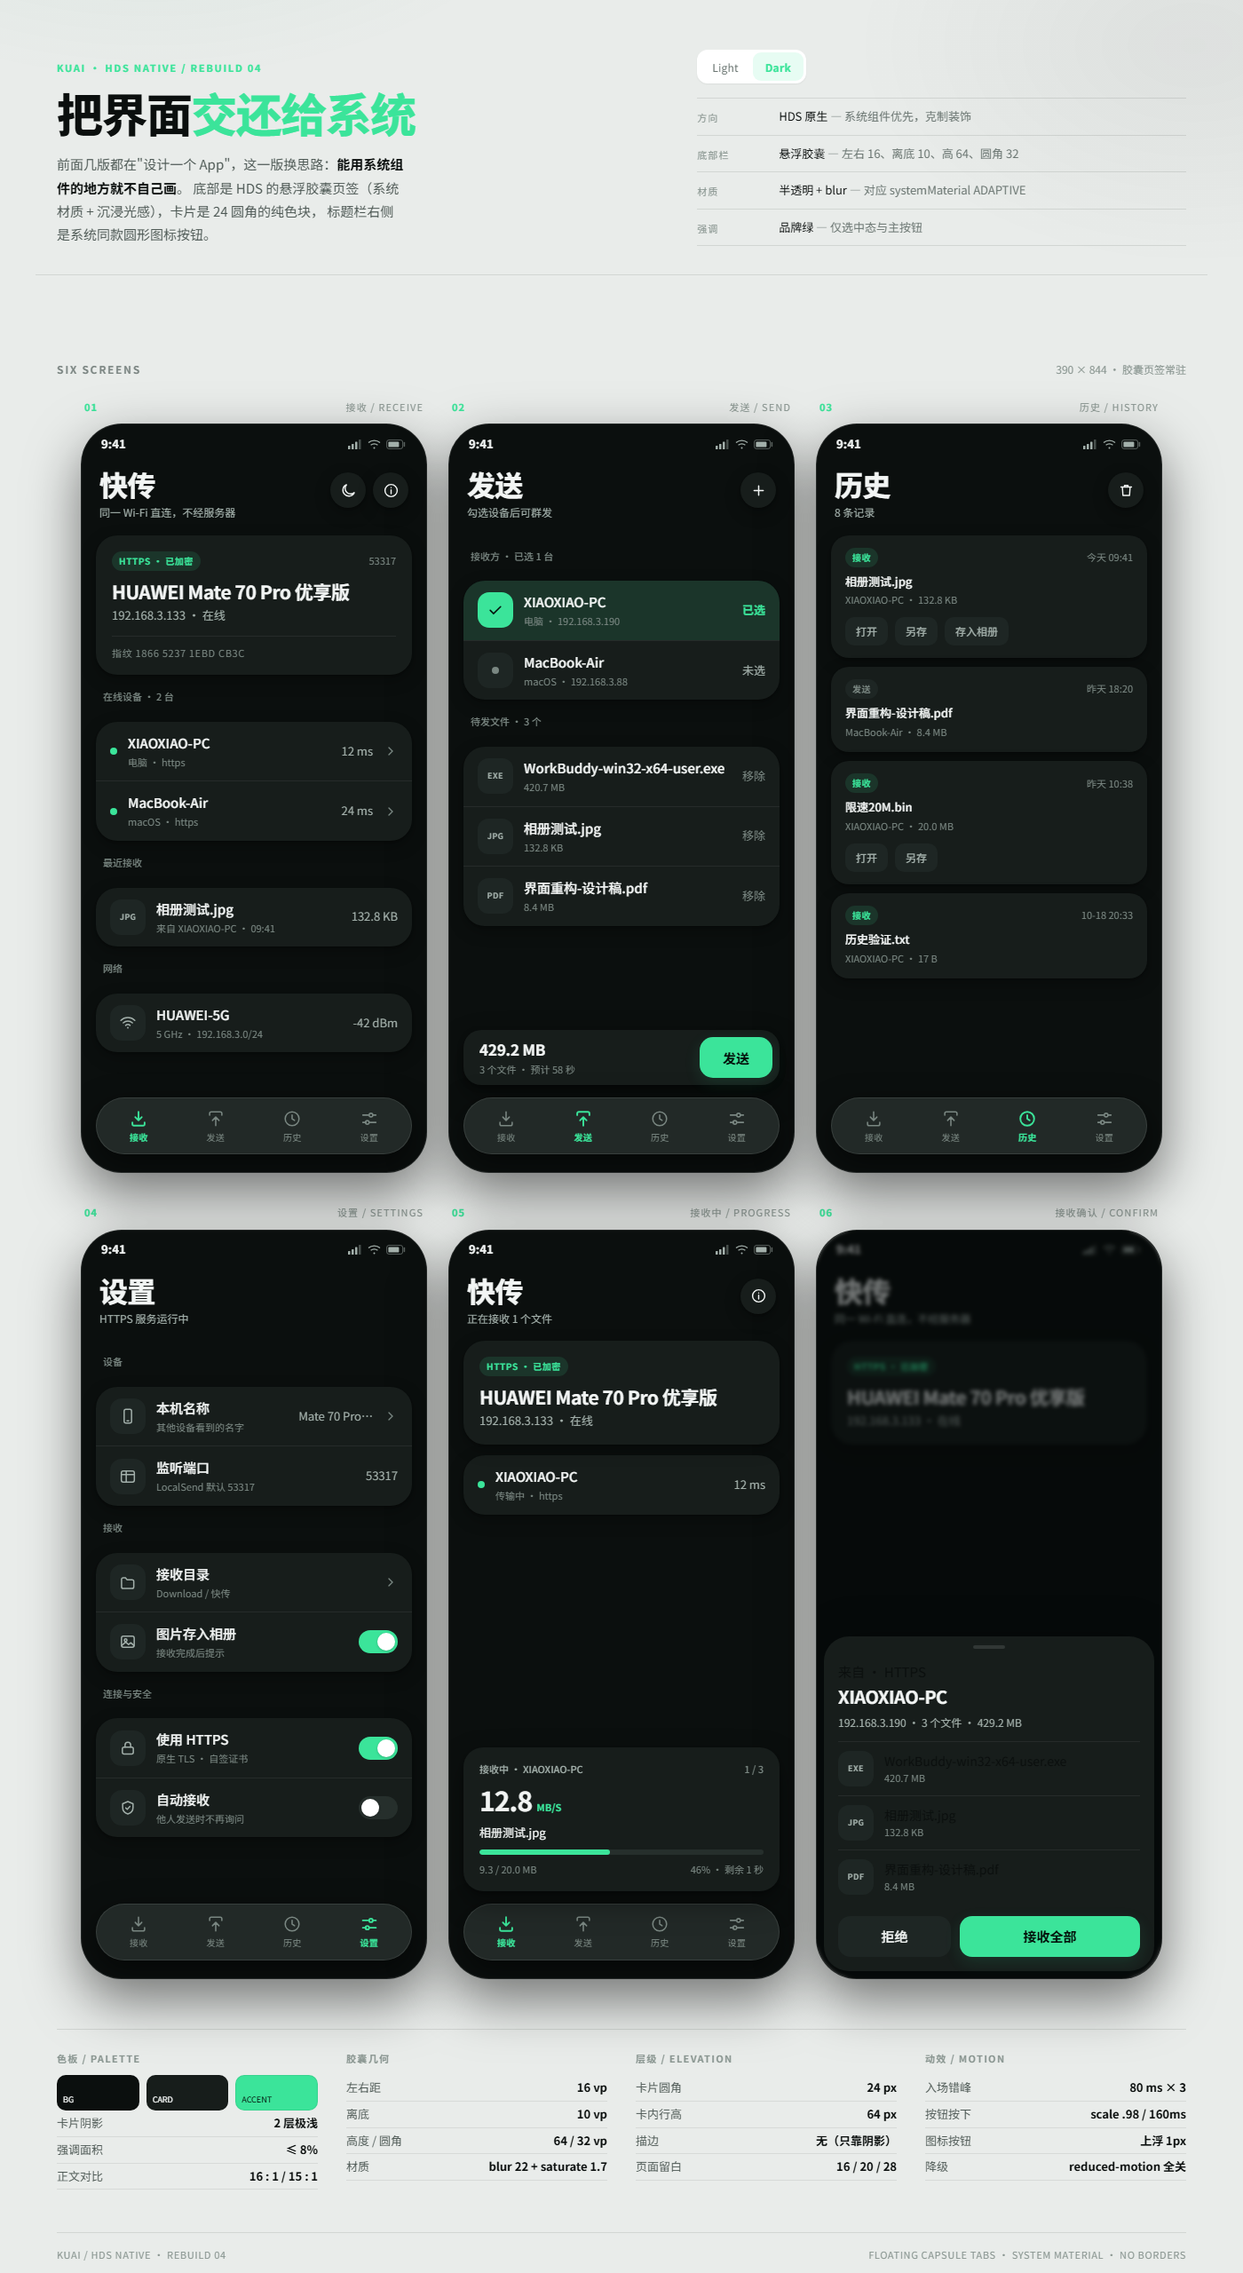
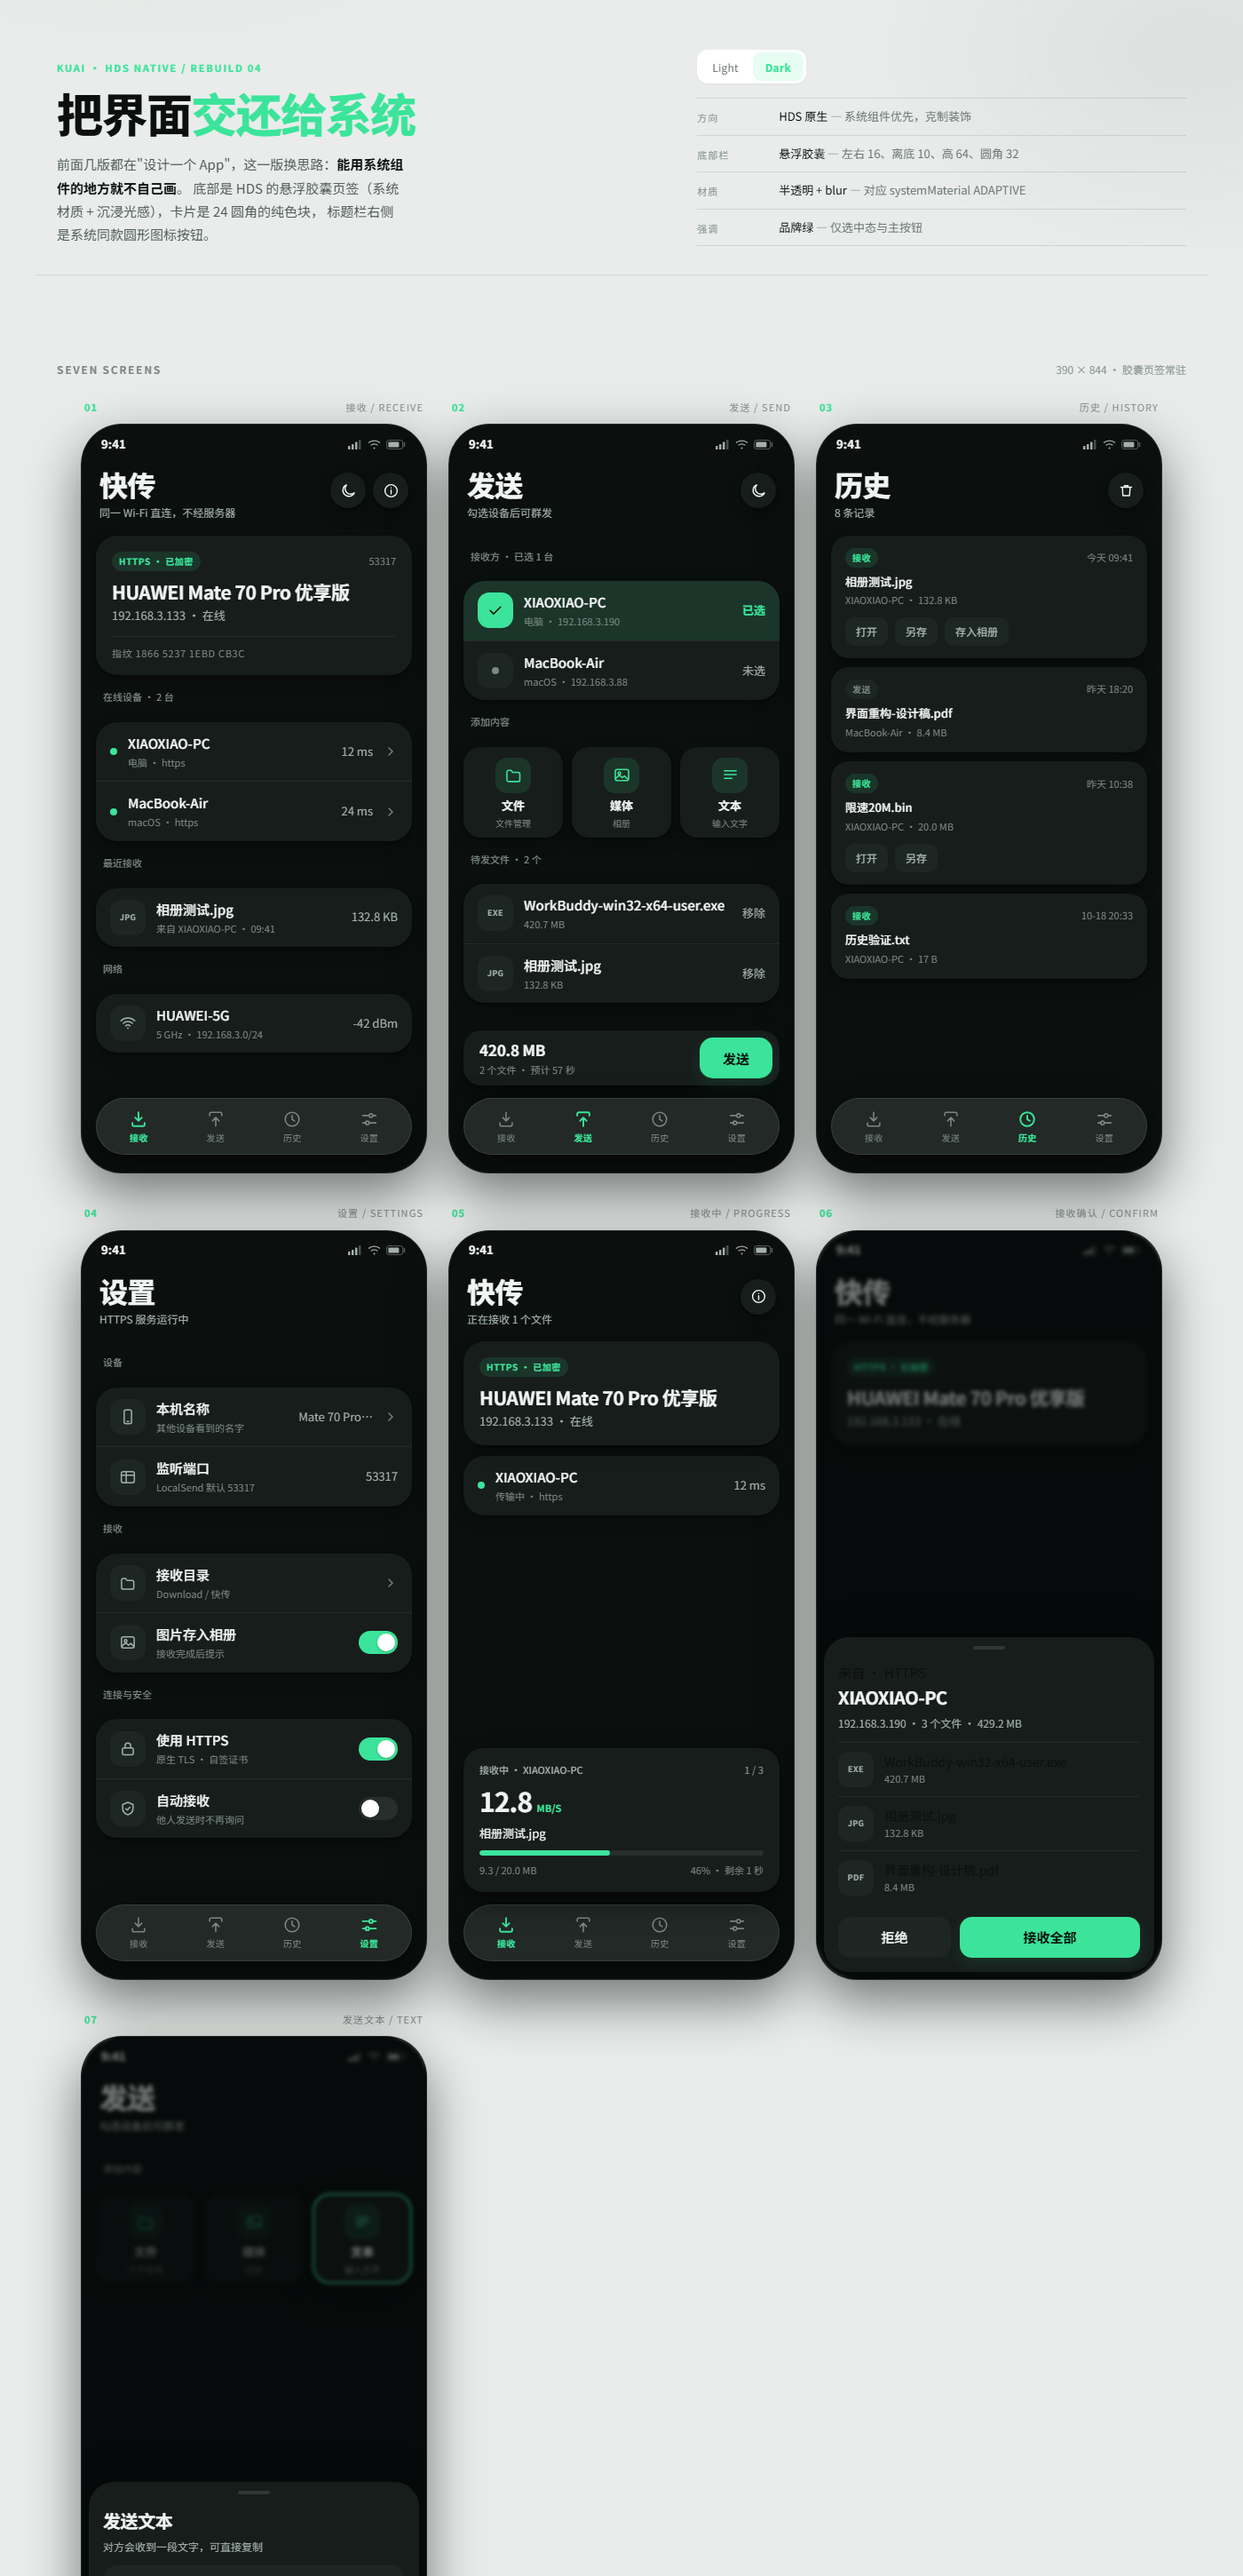
design: 发送页添加入口拆成三宫格 + 新增文本输入弹窗
反馈：原来只有一个"添加文件"按钮，埋在一堆按钮里，不明显。

发送页（02）
- 「添加内容」三宫格：文件 / 媒体 / 文本，等宽三等分
  每个 20 圆角、40 图标块（accent-soft 底 + accent-ink 线条）、13px 标题 + 10px 去向说明
- 三宫格放在「待发文件」之上，是这一屏视觉最重的一块
- 右上角的「+」改成主题切换（原来和三宫格功能重复）
- 待发文件减到 2 个，避免内容把 action-bar 顶出屏幕

新增 07 屏：发送文本
- 底部 sheet：标题 + 副标题 + 多行输入框（card-2 底、16 圆角）+ 字数 0/2000
- 「取消 / 添加到待发」两个按钮
- 背景三宫格里「文本」用 accent outline 标出当前操作

README 补「添加入口」章节，标注三个方块对应的系统 API

diff --git a/design/hds-native/index.html b/design/hds-native/index.html
@@ -66,7 +66,7 @@
 <main class="wrap">
 
   <div class="section-head">
-    <h2>Six Screens</h2>
+    <h2>Seven Screens</h2>
     <p>390 × 844 · 胶囊页签常驻</p>
   </div>
 
@@ -208,8 +208,8 @@
               <span class="sub">勾选设备后可群发</span>
             </div>
             <div class="head-actions">
-              <button class="ico-btn" aria-label="添加文件">
-                <svg viewBox="0 0 24 24" fill="none" stroke="currentColor" stroke-width="1.9" stroke-linecap="round"><path d="M12 5.5v13M5.5 12h13"/></svg>
+              <button class="ico-btn" aria-label="切换主题">
+                <svg viewBox="0 0 24 24" fill="none" stroke="currentColor" stroke-width="1.8" stroke-linecap="round"><path d="M20.5 14.5A8.5 8.5 0 1 1 9.5 3.5a6.6 6.6 0 0 0 11 11Z"/></svg>
               </button>
             </div>
           </header>
@@ -239,7 +239,33 @@
             </div>
           </section>
 
-          <p class="group-label">待发文件 · 3 个</p>
+          <p class="group-label">添加内容</p>
+
+          <div class="add-grid">
+            <button class="add-tile" aria-label="从文件管理添加文件">
+              <span class="ico">
+                <svg viewBox="0 0 24 24" fill="none" stroke="currentColor" stroke-width="1.8" stroke-linecap="round" stroke-linejoin="round"><path d="M3.4 8.2A2.2 2.2 0 0 1 5.6 6h3.1l2 2.6h7.1a2.2 2.2 0 0 1 2.2 2.2v7.4a2.2 2.2 0 0 1-2.2 2.2H5.6a2.2 2.2 0 0 1-2.2-2.2Z"/></svg>
+              </span>
+              <span class="t">文件</span>
+              <span class="s">文件管理</span>
+            </button>
+            <button class="add-tile" aria-label="从相册添加图片或视频">
+              <span class="ico">
+                <svg viewBox="0 0 24 24" fill="none" stroke="currentColor" stroke-width="1.8" stroke-linecap="round" stroke-linejoin="round"><rect x="3.4" y="4.8" width="17.2" height="14.4" rx="2.6"/><circle cx="8.6" cy="9.6" r="1.6"/><path d="M3.8 16.6l4.8-4.4 3.8 3.2 2.8-2.2 4.6 4.2"/></svg>
+              </span>
+              <span class="t">媒体</span>
+              <span class="s">相册</span>
+            </button>
+            <button class="add-tile" aria-label="输入一段文字">
+              <span class="ico">
+                <svg viewBox="0 0 24 24" fill="none" stroke="currentColor" stroke-width="1.8" stroke-linecap="round" stroke-linejoin="round"><path d="M4.4 6.6h15.2M4.4 11.4h15.2M4.4 16.2h9.6"/></svg>
+              </span>
+              <span class="t">文本</span>
+              <span class="s">输入文字</span>
+            </button>
+          </div>
+
+          <p class="group-label">待发文件 · 2 个</p>
 
           <section class="card">
             <div class="row">
@@ -248,7 +274,7 @@
                 <span class="t">WorkBuddy-win32-x64-user.exe</span>
                 <span class="s">420.7 MB</span>
               </div>
-              <span class="v" style="color:var(--mute)">移除</span>
+              <span class="v" style="color:var(--dim)">移除</span>
             </div>
             <div class="row">
               <span class="ext">jpg</span>
@@ -256,23 +282,15 @@
                 <span class="t">相册测试.jpg</span>
                 <span class="s">132.8 KB</span>
               </div>
-              <span class="v" style="color:var(--mute)">移除</span>
-            </div>
-            <div class="row">
-              <span class="ext">pdf</span>
-              <div class="txt">
-                <span class="t">界面重构-设计稿.pdf</span>
-                <span class="s">8.4 MB</span>
-              </div>
-              <span class="v" style="color:var(--mute)">移除</span>
+              <span class="v" style="color:var(--dim)">移除</span>
             </div>
           </section>
         </div>
 
         <div class="action-bar">
           <div class="sum">
-            <b>429.2 MB</b>
-            <span>3 个文件 · 预计 58 秒</span>
+            <b>420.8 MB</b>
+            <span>2 个文件 · 预计 57 秒</span>
           </div>
           <button class="btn btn-primary">发送</button>
         </div>
@@ -658,6 +676,76 @@
           <div class="sheet-actions">
             <button class="btn">拒绝</button>
             <button class="btn btn-primary">接收全部</button>
+          </div>
+        </section>
+      </div>
+    </figure>
+
+    <!-- ================= 07 文本输入 ================= -->
+    <figure class="frame reveal">
+      <figcaption><b>07</b><span>发送文本 / TEXT</span></figcaption>
+      <div class="phone">
+        <div class="status-bar">
+          <span>9:41</span>
+          <span class="glyphs">
+            <svg width="16" height="11" viewBox="0 0 16 11" fill="currentColor" aria-hidden="true"><rect x="0" y="7" width="2.5" height="4" rx=".6"/><rect x="4" y="5" width="2.5" height="6" rx=".6"/><rect x="8" y="2.5" width="2.5" height="8.5" rx=".6"/><rect x="12" y="0" width="2.5" height="11" rx=".6" opacity=".4"/></svg>
+            <svg width="15" height="11" viewBox="0 0 15 11" fill="none" stroke="currentColor" stroke-width="1.3" aria-hidden="true"><path d="M1 3.6a10 10 0 0 1 13 0M3.6 6.3a6.4 6.4 0 0 1 7.8 0"/><circle cx="7.5" cy="9.4" r="1" fill="currentColor" stroke="none"/></svg>
+            <svg width="23" height="11" viewBox="0 0 23 11" fill="none" aria-hidden="true"><rect x=".6" y=".6" width="18" height="9.8" rx="2.4" stroke="currentColor" stroke-opacity=".5"/><rect x="2.4" y="2.4" width="12" height="6.2" rx="1.2" fill="currentColor"/><path d="M20.4 3.6v3.8" stroke="currentColor" stroke-opacity=".5" stroke-width="1.6" stroke-linecap="round"/></svg>
+          </span>
+        </div>
+
+        <div class="screen-body">
+          <header class="page-head">
+            <div class="head-txt">
+              <h1>发送</h1>
+              <span class="sub">勾选设备后可群发</span>
+            </div>
+          </header>
+
+          <p class="group-label">添加内容</p>
+
+          <div class="add-grid">
+            <button class="add-tile" style="opacity:.55">
+              <span class="ico">
+                <svg viewBox="0 0 24 24" fill="none" stroke="currentColor" stroke-width="1.8" stroke-linecap="round" stroke-linejoin="round"><path d="M3.4 8.2A2.2 2.2 0 0 1 5.6 6h3.1l2 2.6h7.1a2.2 2.2 0 0 1 2.2 2.2v7.4a2.2 2.2 0 0 1-2.2 2.2H5.6a2.2 2.2 0 0 1-2.2-2.2Z"/></svg>
+              </span>
+              <span class="t">文件</span>
+              <span class="s">文件管理</span>
+            </button>
+            <button class="add-tile" style="opacity:.55">
+              <span class="ico">
+                <svg viewBox="0 0 24 24" fill="none" stroke="currentColor" stroke-width="1.8" stroke-linecap="round" stroke-linejoin="round"><rect x="3.4" y="4.8" width="17.2" height="14.4" rx="2.6"/><circle cx="8.6" cy="9.6" r="1.6"/><path d="M3.8 16.6l4.8-4.4 3.8 3.2 2.8-2.2 4.6 4.2"/></svg>
+              </span>
+              <span class="t">媒体</span>
+              <span class="s">相册</span>
+            </button>
+            <button class="add-tile" style="box-shadow:var(--card-shadow-hi);outline:2px solid var(--accent);outline-offset:-2px">
+              <span class="ico">
+                <svg viewBox="0 0 24 24" fill="none" stroke="currentColor" stroke-width="1.8" stroke-linecap="round" stroke-linejoin="round"><path d="M4.4 6.6h15.2M4.4 11.4h15.2M4.4 16.2h9.6"/></svg>
+              </span>
+              <span class="t">文本</span>
+              <span class="s">输入文字</span>
+            </button>
+          </div>
+        </div>
+
+        <div class="scrim" aria-hidden="true"></div>
+
+        <section class="sheet" aria-label="发送文本">
+          <div class="grabber"></div>
+          <h3>发送文本</h3>
+          <p class="sub">对方会收到一段文字，可直接复制</p>
+
+          <textarea class="text-input" placeholder="输入要发送的内容…"></textarea>
+
+          <div class="text-meta">
+            <span>支持多行，最多 2000 字</span>
+            <span>0 / 2000</span>
+          </div>
+
+          <div class="sheet-actions">
+            <button class="btn">取消</button>
+            <button class="btn btn-primary">添加到待发</button>
           </div>
         </section>
       </div>

diff --git a/design/hds-native/styles/components.css b/design/hds-native/styles/components.css
@@ -658,3 +658,88 @@
   font-size: var(--fs-xs);
   color: var(--mute);
 }
+
+/* ---------------- 添加入口三宫格 ---------------- */
+
+.add-grid {
+  display: grid;
+  grid-template-columns: repeat(3, 1fr);
+  gap: 10px;
+  margin-bottom: 12px;
+}
+
+.add-tile {
+  display: flex;
+  flex-direction: column;
+  align-items: center;
+  gap: 6px;
+  padding: 12px 6px 10px;
+  border: 0;
+  border-radius: 20px;
+  background: var(--card);
+  box-shadow: var(--card-shadow);
+  cursor: pointer;
+  font-family: var(--font);
+  transition: transform var(--dur-fast) var(--ease), box-shadow var(--dur-fast) ease-out;
+}
+
+.add-tile:hover {
+  transform: translateY(-2px);
+  box-shadow: var(--card-shadow-hi);
+}
+
+.add-tile:active {
+  transform: scale(0.97);
+}
+
+.add-tile .ico {
+  width: 40px;
+  height: 40px;
+  border-radius: 13px;
+  display: grid;
+  place-items: center;
+  background: var(--accent-soft);
+  color: var(--accent-ink);
+}
+
+.add-tile .ico svg { width: 21px; height: 21px; }
+
+.add-tile .t {
+  font-size: 13px;
+  font-weight: 600;
+  color: var(--text);
+  line-height: 1.2;
+}
+
+.add-tile .s {
+  font-size: 10px;
+  color: var(--mute);
+  line-height: 1.2;
+}
+
+/* ---------------- 文本输入 ---------------- */
+
+.text-input {
+  width: 100%;
+  min-height: 132px;
+  padding: 14px;
+  border: 0;
+  border-radius: 16px;
+  background: var(--card-2);
+  color: var(--text);
+  font-family: var(--font);
+  font-size: 15px;
+  line-height: 1.6;
+  resize: none;
+  outline: none;
+}
+
+.text-input::placeholder { color: var(--mute); }
+
+.text-meta {
+  display: flex;
+  justify-content: space-between;
+  margin-top: 8px;
+  font-size: 11px;
+  color: var(--mute);
+}

diff --git a/design/hds-native/README.md b/design/hds-native/README.md
@@ -27,16 +27,29 @@
 
 三个必要条件（少一个悬浮就不生效）：`barPosition(End)` + `vertical(false)` + `barOverlap(true)`。
 
-## 六个屏
+## 添加入口（02 屏）
+
+原来只有一个「添加文件」按钮，埋在一堆按钮里。现在拆成三个等宽方块，图标 + 标题 + 去向说明：
+
+| 方块 | 去向 | 实现 |
+|---|---|---|
+| 文件 | 系统文件管理 | `picker.DocumentViewPicker.select()` |
+| 媒体 | 系统相册 | `photoAccessHelper.PhotoViewPicker.select()` |
+| 文本 | 弹窗输入 | 底部 sheet（07 屏），提交后作为 `text` 条目进入待发列表 |
+
+三个方块都是 20 圆角、40 图标块、13px 标题 + 10px 去向，横排三等分，是这一屏视觉上最重的一块。
+
+## 七个屏
 
 | # | 屏 | 关键结构 |
 |---|---|---|
 | 01 | 接收 | 大标题 + 圆形按钮 / 本机卡 / 在线设备（列表卡）/ 最近接收 / 网络 |
-| 02 | 发送 | 接收方列表卡（选中态整行浅绿 + 绿对勾）/ 待发文件卡 / 底部 action-bar |
+| 02 | 发送 | 接收方列表卡（选中态整行浅绿 + 绿对勾）/ **添加内容三宫格** / 待发文件卡 / 底部 action-bar |
 | 03 | 历史 | 独立日志卡 + 类型 tag（接收绿 / 发送灰） |
 | 04 | 设置 | 三组列表卡：设备 / 接收 / 安全，每行 40 图标块 + 标题 + 副标题 + 右值 |
 | 05 | 接收中 | 进度浮卡压在胶囊上方，速度 30px |
 | 06 | 接收确认 | 底部 sheet（28 圆角）盖住胶囊 |
+| 07 | 发送文本 | 三宫格「文本」→ 底部 sheet：多行输入框 + 字数 + 添加到待发 |
 
 ## 令牌
 
